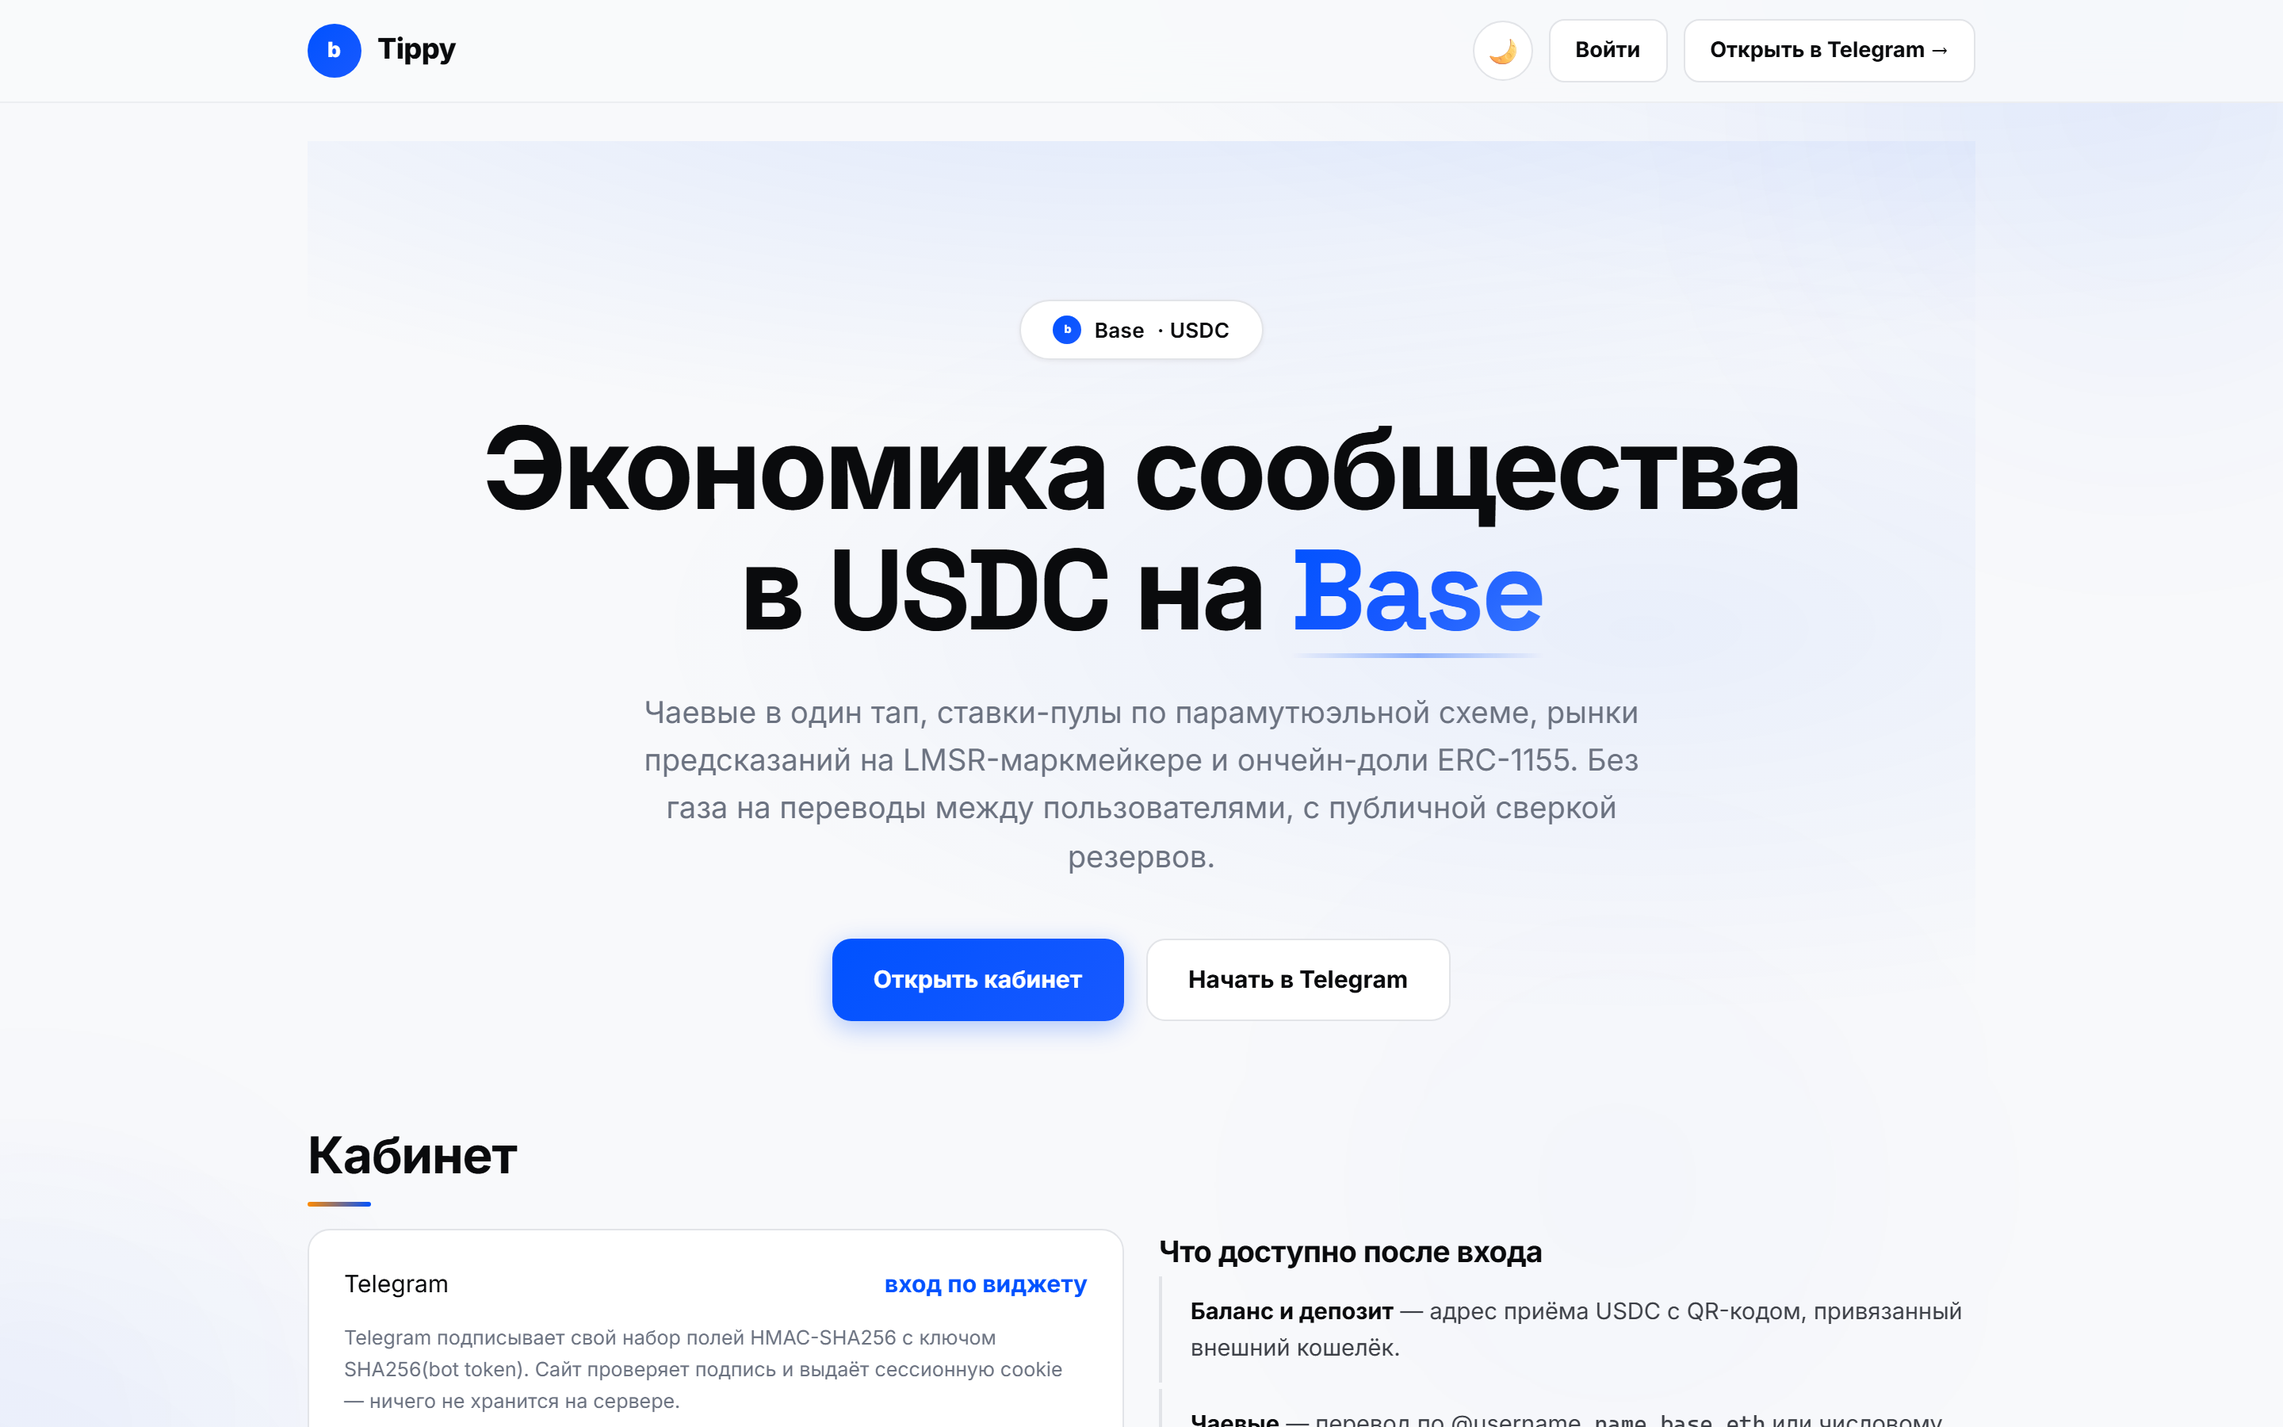
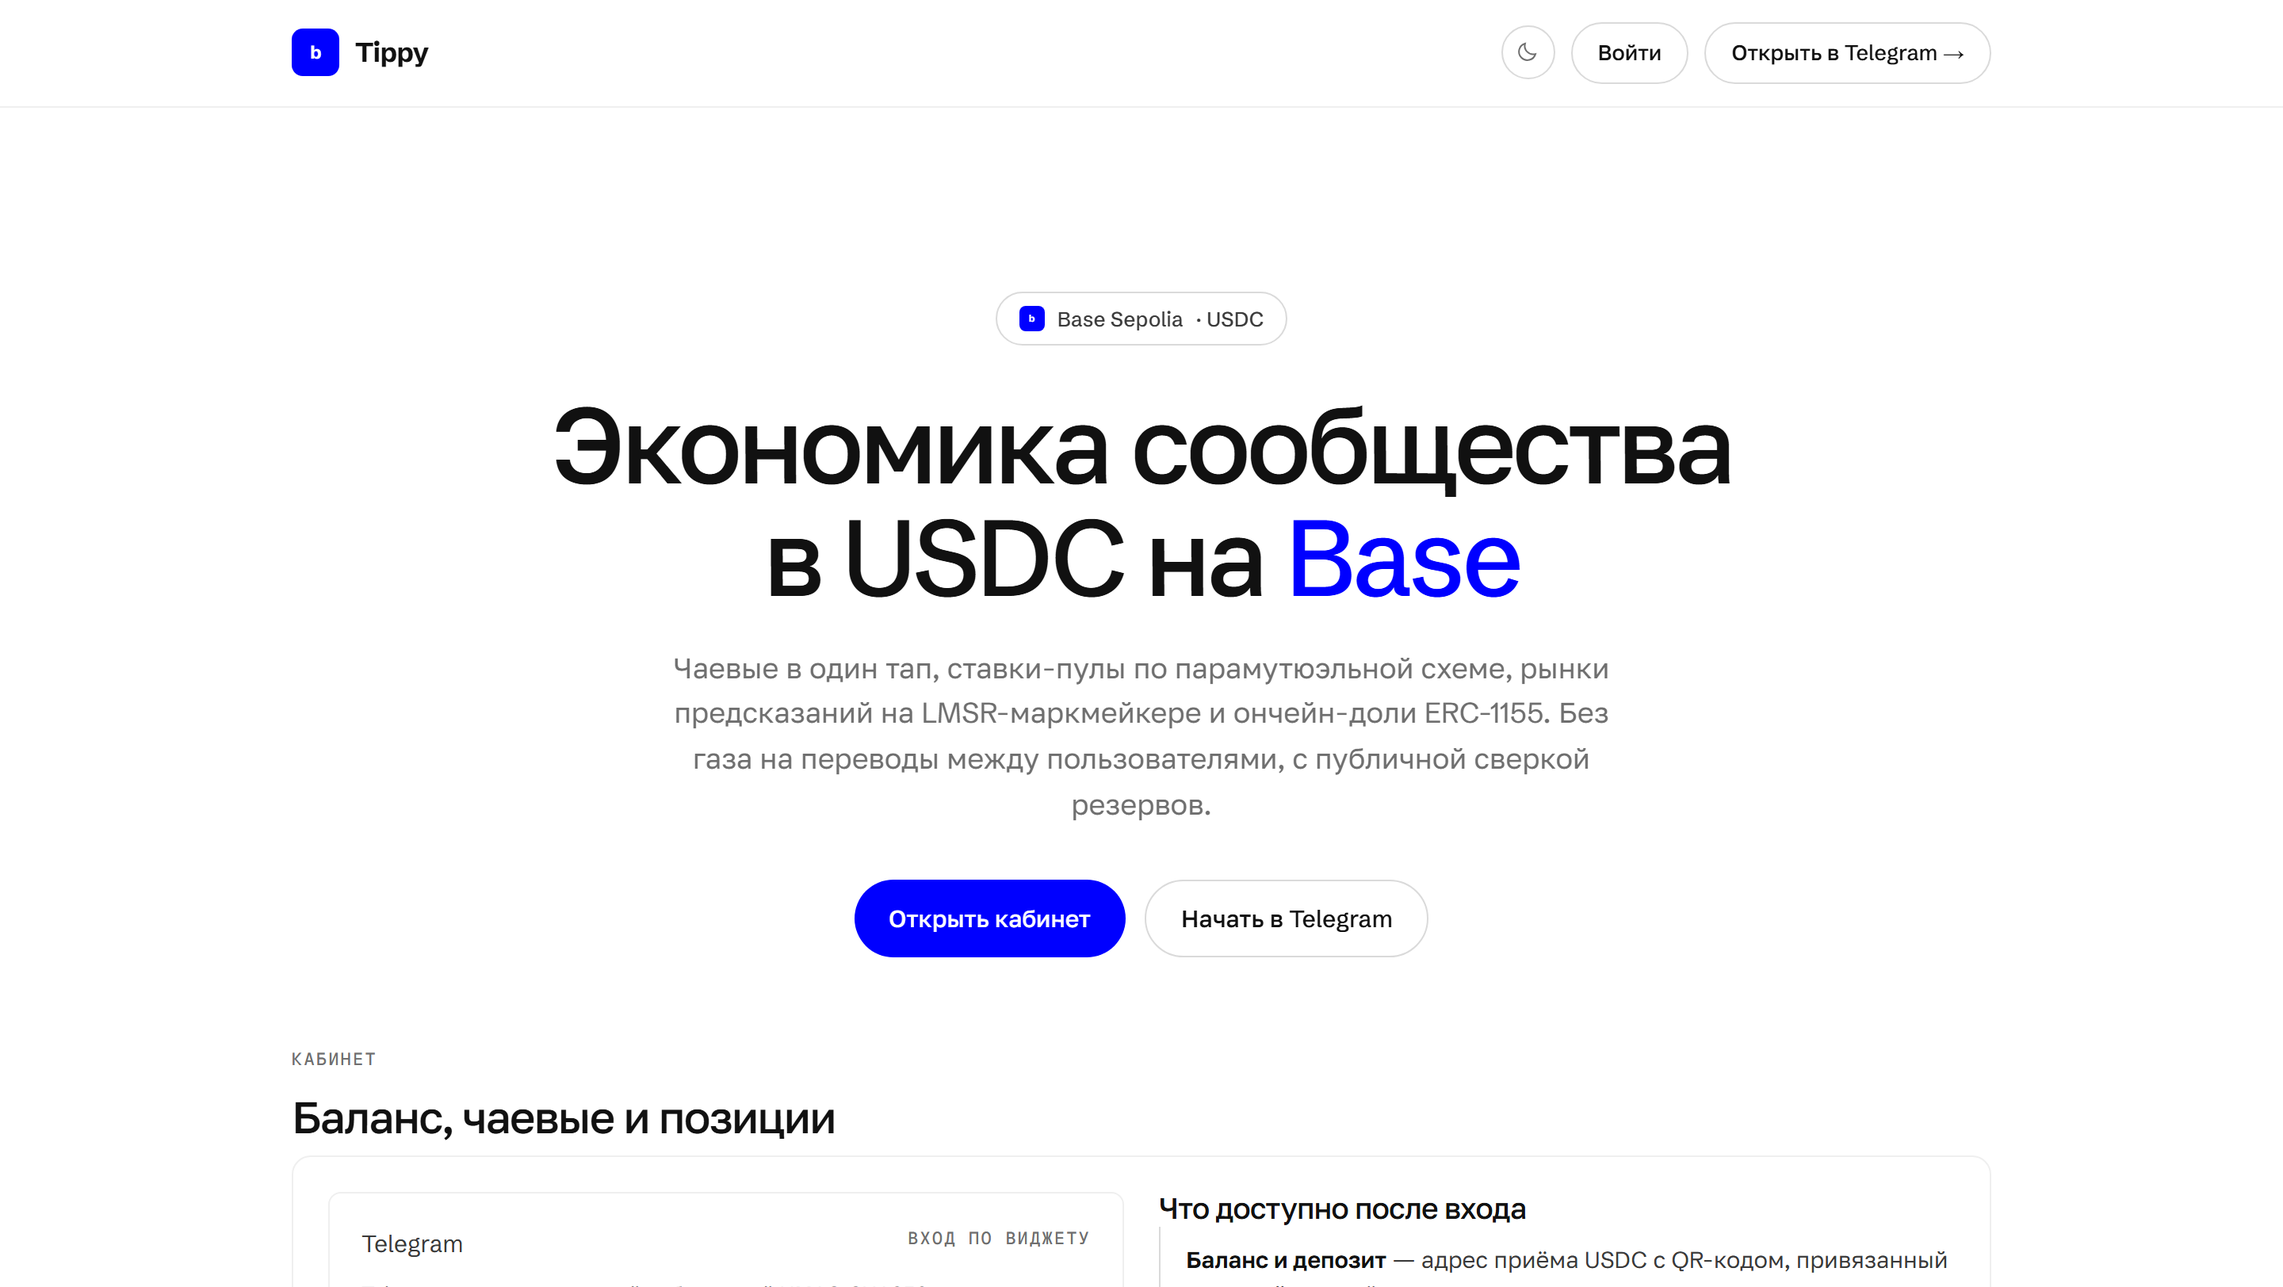
fix(bot,web): complete the command menu, type Cyrillic, tell the truth in docs
Three things that were each quietly wrong.

The menu: /oc_create, /oc_buy, /oc_sell, /oc_redeem and /ask had handlers but no
entry in bot/commands_catalog.py, so Telegram never offered them and the website
command table (which reads the same list) omitted the AI assistant. /help was
missing too. The catalog is now the only source for both entrypoints, so
AI_BOT_COMMAND and its i18n key go away. The "Платные посты" button was dead
outright: it sent callback_data="paywall" while the handler listens for
"paywall_list". Two tests now resolve every menu button against the router's
filters and every handler against the menu.

The type: Schibsted Grotesk ships latin and latin-ext only, so every Cyrillic
heading and label on a Russian-first product has been rendering in Arial while
the stylesheet claimed otherwise. Golos Text sits behind it for Cyrillic and
Latin stays Schibsted.

The docs: the README still advertised #0052FF and a `python main.py` that never
existed, said 986 tests when there are 1015, pointed the Base Build portal at a
non-resolving portal.base.dev, and told an operator to restore from a
tipbot_latest.sql.gz that backup_db.sh does not write. Screenshots are recaptured
from the deployed site, the Mini App one with a real session.

diff --git a/web/static/app.html b/web/static/app.html
@@ -38,12 +38,12 @@
 })();
 </script>
 <style>
-@import url('https://fonts.googleapis.com/css2?family=Schibsted+Grotesk:wght@400;500;600;700&family=Geist+Mono:wght@400;500&display=swap');
+@import url('https://fonts.googleapis.com/css2?family=Schibsted+Grotesk:wght@400;500;600;700&family=Golos+Text:wght@400;500;600;700&family=Geist+Mono:wght@400;500&display=swap');
 *,*::before,*::after{box-sizing:border-box;margin:0;padding:0}
 /* Tokens copied from /style.css — base.org values: one brand blue, neutral greys,
  * hairline borders, no shadows. --accent paints surfaces, --accent-text paints type,
  * because #224bff is a fill colour and is not readable as text on the dark canvas. */
-:root,[data-theme="light"]{--accent:#0000ff;--accent2:#0000cc;--accent-text:#0000ff;--blue-soft:rgba(0,0,255,.07);--blue-line:rgba(0,0,255,.22);--bg:#ffffff;--card:#ffffff;--card2:#f8f8f8;--card3:#efefef;--border:#efefef;--border-strong:#dadada;--text:#111111;--text2:#3a3a3a;--text3:#6f6f6f;--text4:#9a9a9a;--success:#10693f;--success-bg:rgba(16,105,63,.08);--danger:#b42318;--danger-bg:rgba(180,35,24,.07);--warning:#8a5a00;--nav-bg:rgba(255,255,255,.92);--scrim:rgba(17,17,17,.45);--radius:8px;--radius-lg:12px;--pill:9999px;--font-ui:"Schibsted Grotesk","Helvetica Neue",Helvetica,Arial,sans-serif;--font-mono:"Geist Mono",ui-monospace,"SF Mono",Menlo,Consolas,monospace;--ease:cubic-bezier(.2,.6,.2,1);--safe-b:env(safe-area-inset-bottom,0px)}
+:root,[data-theme="light"]{--accent:#0000ff;--accent2:#0000cc;--accent-text:#0000ff;--blue-soft:rgba(0,0,255,.07);--blue-line:rgba(0,0,255,.22);--bg:#ffffff;--card:#ffffff;--card2:#f8f8f8;--card3:#efefef;--border:#efefef;--border-strong:#dadada;--text:#111111;--text2:#3a3a3a;--text3:#6f6f6f;--text4:#9a9a9a;--success:#10693f;--success-bg:rgba(16,105,63,.08);--danger:#b42318;--danger-bg:rgba(180,35,24,.07);--warning:#8a5a00;--nav-bg:rgba(255,255,255,.92);--scrim:rgba(17,17,17,.45);--radius:8px;--radius-lg:12px;--pill:9999px;--font-ui:"Schibsted Grotesk","Golos Text","Helvetica Neue",Helvetica,Arial,sans-serif;--font-mono:"Geist Mono",ui-monospace,"SF Mono",Menlo,Consolas,monospace;--ease:cubic-bezier(.2,.6,.2,1);--safe-b:env(safe-area-inset-bottom,0px)}
 [data-theme="dark"]{--accent:#224bff;--accent2:#3d61ff;--accent-text:#7575ff;--blue-soft:rgba(34,75,255,.16);--blue-line:rgba(117,117,255,.32);--bg:#111111;--card:#1a1a1a;--card2:#1a1a1a;--card3:#262626;--border:#2d2d2d;--border-strong:#3a3a3a;--text:#ededed;--text2:#c8c8c8;--text3:#9a9a9a;--text4:#8b8b8b;--success:#4bd09b;--success-bg:rgba(75,208,155,.14);--danger:#ff7a70;--danger-bg:rgba(255,122,112,.12);--warning:#d99a2b;--nav-bg:rgba(17,17,17,.92);--scrim:rgba(0,0,0,.65)}
 html,body{height:100%;font-family:var(--font-ui);font-size:15px;line-height:1.5;background:var(--bg);color:var(--text);overflow:hidden;-webkit-tap-highlight-color:transparent}
 a{color:var(--accent-text);text-decoration:none}

diff --git a/web/static/style.css b/web/static/style.css
@@ -2,10 +2,11 @@
    Tippy — Base design system
    Tokens taken from base.org production CSS: one brand blue,
    neutral greys, hairline borders, no shadows, no gradients.
-   Type: Schibsted Grotesk (UI) + Geist Mono (numbers, micro-labels)
+   Type: Schibsted Grotesk (UI, latin only) with Golos Text behind it for Cyrillic,
+   + Geist Mono (numbers, micro-labels)
    ================================================================ */
 
-@import url('https://fonts.googleapis.com/css2?family=Schibsted+Grotesk:wght@400;500;600;700&family=Geist+Mono:wght@400;500&display=swap');
+@import url('https://fonts.googleapis.com/css2?family=Schibsted+Grotesk:wght@400;500;600;700&family=Golos+Text:wght@400;500;600;700&family=Geist+Mono:wght@400;500&display=swap');
 
 /* ---------- Reset ---------- */
 *, *::before, *::after { margin: 0; padding: 0; box-sizing: border-box; }
@@ -57,7 +58,7 @@
   --radius-lg: 12px;
   --pill: 9999px;
 
-  --font-ui: "Schibsted Grotesk", "Helvetica Neue", Helvetica, Arial, sans-serif;
+  --font-ui: "Schibsted Grotesk", "Golos Text", "Helvetica Neue", Helvetica, Arial, sans-serif;
   --font-mono: "Geist Mono", ui-monospace, "SF Mono", Menlo, Consolas, monospace;
   --ease: cubic-bezier(0.2, 0.6, 0.2, 1);
   --nav-bg: rgba(255, 255, 255, 0.92);

diff --git a/functions/[[path]].js b/functions/[[path]].js
@@ -28,12 +28,13 @@ const MAINTENANCE = `<!doctype html>
 <meta name="viewport" content="width=device-width, initial-scale=1">
 <title>Tippy — временно недоступен</title>
 <style>
+  @import url('https://fonts.googleapis.com/css2?family=Schibsted+Grotesk:wght@400;500;600;700&family=Golos+Text:wght@400;500;600;700&display=swap');
   :root {
     --blue: #0000ff; --blue-hover: #0000cc; --blue-soft: rgba(0, 0, 255, .07);
     --canvas: #ffffff; --surface: #f8f8f8; --border: #efefef; --border-strong: #dadada;
     --ink: #111111; --muted: #6f6f6f; --muted-2: #9a9a9a; --warning: #8a5a00;
     --pill: 9999px;
-    --font-ui: "Schibsted Grotesk", "Helvetica Neue", Helvetica, Arial, sans-serif;
+    --font-ui: "Schibsted Grotesk", "Golos Text", "Helvetica Neue", Helvetica, Arial, sans-serif;
     --font-mono: "Geist Mono", ui-monospace, "SF Mono", Menlo, Consolas, monospace;
     color-scheme: light;
   }

diff --git a/tests/test_handlers.py b/tests/test_handlers.py
@@ -2561,3 +2561,77 @@ def test_deposit_has_disclaimer(ledger):
     caption = m.photos[0][1]
     assert "Дисклеймер" in caption
     assert "кастодиальный" in caption
+
+
+# Commands the dispatcher answers but the user menu must not list: /start is
+# Telegram's own entry point, the rest are gated on ADMIN_TG_ID or the oracle
+# role, so autocompleting them would only invite "not authorized".
+OPERATOR_COMMANDS = {"start", "agent", "broadcast", "oc_resolve"}
+
+
+def test_every_user_command_is_in_the_menu():
+    """/oc_buy, /oc_create, /oc_sell, /oc_redeem and /ask worked for weeks without
+    ever appearing in Telegram's command list or in the website's command table,
+    because the menu is a separate list from the handlers. Enumerate what the
+    dispatcher actually answers and compare it with what is published."""
+    from aiogram.filters import Command
+
+    from bot.commands_catalog import BOT_COMMAND_SPECS
+    from bot.handlers import router
+
+    handled = set()
+    for handler in router.message.handlers:
+        for flt in (handler.filters or []):
+            cb = getattr(flt, "callback", None)
+            if isinstance(cb, Command):
+                handled.update(
+                    (c.command if hasattr(c, "command") else str(c)).lstrip("/")
+                    for c in cb.commands
+                )
+    menu = {name for name, _ in BOT_COMMAND_SPECS}
+    assert handled - OPERATOR_COMMANDS <= menu
+    assert menu <= handled
+
+
+def test_readme_documents_every_menu_command():
+    """A command that ships in the Telegram menu but appears in no README is a
+    command nobody but the bot knows about. Checked against the whole file, not a
+    fixed section, so the README can be reorganised freely."""
+    import re
+    from pathlib import Path
+
+    from bot.commands_catalog import BOT_COMMAND_SPECS
+
+    readme = Path(__file__).resolve().parents[1].joinpath("README.md").read_text(encoding="utf-8")
+    documented = set(re.findall(r"`/([a-z_]+)", readme))
+    missing = sorted(name for name, _ in BOT_COMMAND_SPECS if name not in documented)
+    assert not missing, f"README never mentions: {missing}"
+
+
+def test_every_menu_button_has_a_handler():
+    """The main keyboard is assembled from one list and the callback routes from
+    another: «Платные посты» shipped callback_data="paywall" while the handler
+    listens for "paywall_list", so that button did nothing when tapped. Resolve
+    every callback_data in the menu against the router's filters, for all
+    languages, because the labels are translated but the data is not."""
+    from types import SimpleNamespace
+
+    from bot import i18n
+    from bot.handlers import router
+    from bot.handlers._common import _menu_kb
+
+    def matches(flt, data):
+        try:
+            return bool(flt.callback(SimpleNamespace(data=data)))
+        except Exception:
+            return False
+
+    def handled(data):
+        return any(not h.filters or all(matches(f, data) for f in h.filters)
+                   for h in router.callback_query.handlers)
+
+    for lang in i18n.LANGS:
+        for row in _menu_kb(lang).inline_keyboard:
+            for btn in row:
+                if btn.callback_data:
+                    assert handled(btn.callback_data), f"{lang}: {btn.callback_data} has no handler"

diff --git a/bot/commands_catalog.py b/bot/commands_catalog.py
@@ -7,6 +7,7 @@ Kept free of aiogram imports so both the bot (which wraps these into
 
 BOT_COMMAND_SPECS = [
     ('menu', 'Главное меню'),
+    ('help', 'Все команды'),
     ('balance', 'Баланс кошелька'),
     ('deposit', 'Пополнить USDC'),
     ('withdraw', 'Вывести USDC'),
@@ -20,6 +21,10 @@ BOT_COMMAND_SPECS = [
     ('bet', 'Ставка-пул: создать/поставить'),
     ('bets', 'Открытые ставки-пулы'),
     ('oc', 'Cally — ончейн-рынки (ERC-1155)'),
+    ('oc_create', 'Создать ончейн-рынок'),
+    ('oc_buy', 'Купить ончейн-доли'),
+    ('oc_sell', 'Продать ончейн-доли'),
+    ('oc_redeem', 'Забрать выигрыш с ончейн-рынка'),
     ('oc_pos', 'Мои ончейн-доли'),
     ('mybets', 'Мои ставки'),
     ('resolve', 'Закрыть ставку (создатель)'),
@@ -41,6 +46,7 @@ BOT_COMMAND_SPECS = [
     ('language', 'Сменить язык / Language'),
     ('about', 'О боте — что это такое'),
     ('app', 'Мини-приложение'),
+    ('ask', 'Спросить ИИ-ассистента'),
     ('gasless', 'Бесплатные транзакции'),
     ('subscribe', 'Подписка на платежи'),
     ('subscriptions', 'Мои подписки'),

diff --git a/tests/test_web.py b/tests/test_web.py
@@ -1149,3 +1149,20 @@ def test_pages_render_the_session_state_instead_of_a_doomed_probe(client):
     _auth(client, 777)
     assert 'data-signed-in="1"' in client.get("/").text
     assert 'data-signed-in="1"' in client.get("/app").text
+
+
+def test_docs_do_not_advertise_a_palette_or_entrypoint_that_does_not_exist():
+    """base.org was measured, not assumed, and #0052FF appears zero times on it —
+    yet the README still described the design system with that hex for weeks after
+    the rebuild. Same for `python main.py`, a command for a file the repo never
+    had. Both are the kind of drift that only a check can keep out."""
+    from pathlib import Path
+
+    root = Path(__file__).resolve().parents[1]
+    for rel in ("README.md", "docs/ARCHITECTURE.md", "web/static/style.css", "web/static/app.html"):
+        text = (root / rel).read_text(encoding="utf-8").upper()
+        assert "#0052FF" not in text, rel
+
+    readme = (root / "README.md").read_text(encoding="utf-8")
+    assert "python main.py" not in readme
+    assert "deploy/run.py" in readme

diff --git a/deploy/run.py b/deploy/run.py
@@ -161,9 +161,8 @@ async def _start_bot_polling(stop: asyncio.Event | None = None) -> None:
     dp.include_router(router)
 
     try:
-        from bot.handlers import AI_BOT_COMMAND
         # Single source of truth for the command menu: bot.main.BOT_COMMANDS.
-        await tg_bot.set_my_commands([AI_BOT_COMMAND, *bot_main.BOT_COMMANDS])
+        await tg_bot.set_my_commands(bot_main.BOT_COMMANDS)
     except Exception as e:
         log.warning("set_my_commands failed: %s", e)
 

diff --git a/bot/handlers/__init__.py b/bot/handlers/__init__.py
@@ -37,10 +37,7 @@ from ._common import (
     wallets,
 )
 from .agent import cmd_agent
-from .ai import (
-    AI_BOT_COMMAND,
-    cmd_ask,
-)
+from .ai import cmd_ask
 from .basename import cb_basename, cmd_basename
 from .bets import (
     _bet_card,
@@ -174,7 +171,6 @@ router.message.register(cmd_claim_dividends, Command('claim'))
 _index_message = router.message()(_index_message)
 
 __all__ = [
-    "AI_BOT_COMMAND",
     "AMOUNT_RE",
     "BET_ID_RE",
     "BET_LINK_RE",

diff --git a/bot/handlers/ai.py b/bot/handlers/ai.py
@@ -3,13 +3,11 @@ import html
 
 from aiogram import types
 from aiogram.filters import Command
-from aiogram.types import BotCommand
 
 from .. import ai, i18n
 from . import _common as common
 
-__all__ = ['AI_BOT_COMMAND', 'cmd_ask']
-AI_BOT_COMMAND = BotCommand(command='ask', description=i18n.t('en', 'ai_bot_cmd'))
+__all__ = ['cmd_ask']
 
 def _quote_context(message: types.Message) -> str:
     ref = getattr(message, 'reply_to_message', None)

diff --git a/bot/i18n.py b/bot/i18n.py
@@ -2011,11 +2011,6 @@ STRINGS: dict[str, dict[str, str]] = {
         "en": "\n🧾 Earned on markets: <b>{amount} USDC</b>",
         "zh": "\n🧾 市场收益：<b>{amount} USDC</b>",
     },
-    "ai_bot_cmd": {
-        "ru": "Спросить ИИ-ассистента",
-        "en": "Ask AI assistant",
-        "zh": "向 AI 助手提问",
-    },
     "rain_and_more": {
         "ru": " и ещё {n}",
         "en": " and {n} more",

diff --git a/bot/handlers/_common.py b/bot/handlers/_common.py
@@ -282,7 +282,7 @@ def _menu_kb(lang: str = "ru") -> InlineKeyboardMarkup:
             [b("markets", "markets_amm"), b("bets")],
             [b("donate"), b("top")],
             [b("hist"), b("stats")],
-            [b("wallet"), b("paywall")],
+            [b("wallet"), b("paywall", "paywall_list")],
             [b("basename")],
             [b("settings")],
             [b("about")],

diff --git a/bot/main.py b/bot/main.py
@@ -355,8 +355,7 @@ async def main() -> None:
     dp = Dispatcher()
     dp.include_router(router)
     try:
-        from .handlers import AI_BOT_COMMAND
-        await bot.set_my_commands([AI_BOT_COMMAND, *BOT_COMMANDS])
+        await bot.set_my_commands(BOT_COMMANDS)
     except Exception as e:
         log.warning('set_my_commands failed: %s', e)
 
